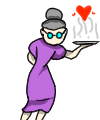
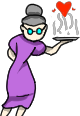
Implement all building animations!
W

diff --git a/SimpleTimer.java b/SimpleTimer.java
@@ -1,0 +1,61 @@
+/**
+ * A simple timer class that allows you to keep track of how much time
+ * has passed between events.
+ * 
+ * You use this class by creating a timer as a member field in your actor (or whatever):
+ * <pre>
+ * 
+ * private SimpleTimer timer = new SimpleTimer();
+ * </pre>
+ * 
+ * Then when you want to start the timer (for example, when a shot is fired), you call the mark() method:
+ * 
+ * <pre>
+ * 
+ * timer.mark();
+ * </pre>
+ * 
+ * Thereafter, you can use the millisElapsed() method to find out how long it's been since mark()
+ * was called (in milliseconds, i.e. thousandths of a second).  So if you want to only allow the player to fire a shot every second, you
+ * could write:
+ * 
+ * <pre>
+ * 
+ * if (timer.millisElapsed() > 1000 && Greenfoot.isKeyDown("space"))
+ * {
+ *     // Code here for firing a new shot
+ *     timer.mark(); // Reset the timer
+ * }
+ * </pre>
+ * 
+ * @author Neil Brown
+ * @version 1.0
+ */
+public class SimpleTimer
+{
+    private long lastMark = System.currentTimeMillis();
+    
+    /**
+     * Marks the current time.  You can then in future call
+     * millisElapsed() to find out the elapsed milliseconds
+     * since this mark() call was made.
+     * 
+     * A second mark() call will reset the mark, and millisElapsed()
+     * will start increasing from zero again.
+     */
+    public void mark()
+    {
+        lastMark = System.currentTimeMillis();
+    }
+    
+    /**
+     * Returns the amount of milliseconds that have elapsed since mark()
+     * was last called.  This timer runs irrespective of Greenfoot's
+     * act() cycle, so if you call it many times during the same Greenfoot frame,
+     * you may well get different answers.
+     */
+    public int millisElapsed()
+    {
+        return (int) (System.currentTimeMillis() - lastMark);
+    }
+}

diff --git a/Building.java b/Building.java
@@ -16,18 +16,23 @@ public abstract class Building extends SuperSmoothMover
     protected Player player;
     protected int actCount;
     protected int actMark;
+    protected SimpleTimer timer = new SimpleTimer();
     
     public Building(Player player) {
         this.player = player;
         actCount = 0;
         actMark = 1;
-        animationIndex = 1;
         scale = 1;
+    }
+    
+    public void addedToWorld(World w) {
+        setInitialImage();
     }
     
     public void act() {
         super.act();
         actCount++;
+        animate();
     }
     
     /**
@@ -61,13 +66,20 @@ public abstract class Building extends SuperSmoothMover
         return actCount + t;
     }
     
+    public void setInitialImage() {
+        String className = this.getClass().getSimpleName();
+        setImage("./gifs/" + className + "/0" + ".png");
+        getImage().scale((int)(getImage().getWidth() * scale), (int)(getImage().getHeight() * scale));
+    }
+    
     public void animate() {
         String className = this.getClass().getSimpleName();
-        if (actCount % 11 == 0 || actCount < 11) {
+        if (actCount % 20 == 0) {
             setImage("./gifs/" + className + "/" + animationIndex + ".png");
             getImage().scale((int)(getImage().getWidth() * scale), (int)(getImage().getHeight() * scale));
+            timer.mark();
+            animationIndex++;
+            animationIndex %= animationSize;
         }
-        animationIndex++;
-        animationIndex %= animationSize;
     }
 }

diff --git a/BuildingRow.java b/BuildingRow.java
@@ -44,11 +44,11 @@ public class BuildingRow extends Clickable
             
             // Make the building move towards the appropriate position
             int buildingX;
+            int imageWidth = building.getImage().getWidth();
             if (buildings.isEmpty()) {
-                int imageWidth = building.getImage().getWidth();
-                buildingX = getX() - (getImage().getWidth() / 2) + (imageWidth / 2) + 10;
+                buildingX = getX() - (getImage().getWidth() / 2) + (imageWidth / 2) + 3;
             } else {
-                buildingX = (int)buildings.get(buildings.size() - 1).getTargetX() + spacing;
+                buildingX = (int)buildings.get(buildings.size() - 1).getTargetX() + (imageWidth / 2) + spacing;
             }
             building.startGlidingTo(buildingX, getY(), 15);
             

diff --git a/Player.java b/Player.java
@@ -82,7 +82,7 @@ public class Player extends Clickable
         int rowHeight = (height - 10) / 2 / cw.getBuildingClasses().size();
         
         for (int i = 0; i < cw.getBuildingClasses().size(); i++) {
-            BuildingRow buildingRow = new BuildingRow(this, cw.getBuildingClasses().get(i), width, rowHeight, 30);
+            BuildingRow buildingRow = new BuildingRow(this, cw.getBuildingClasses().get(i), width, rowHeight, 20);
             buildingRows.put(cw.getBuildingClasses().get(i), buildingRow);
             cw.addObject(buildingRows.get(cw.getBuildingClasses().get(i)), getX(), getY() + 10 + (int)((i + 0.5) * rowHeight));
         }

diff --git a/Grandma.java b/Grandma.java
@@ -11,6 +11,7 @@ public class Grandma extends Building
 {
     private boolean angry;
     private int angryCount;
+    
     public Grandma(Player player) {
         super(player);
         animationSize = 5;
@@ -24,7 +25,6 @@ public class Grandma extends Building
             produce(30, 50);
             actMark = getNextActMark(1, 2);
         }
-        animate();
         if(angry) {
             angryCount++;
             if(angryCount < 10) { // stagger jumping start times

diff --git a/Printer3D.java b/Printer3D.java
@@ -10,8 +10,8 @@ public class Printer3D extends Building
 {
     public Printer3D(Player player) {
         super(player);
-        
-        setImage("./images/placeholder/alchemy-lab.png");
+        animationSize = 8;
+        scale = 0.5;
     }
     
     public void act() {
@@ -20,5 +20,7 @@ public class Printer3D extends Building
             produce(650, 900);
             getNextActMark(2, 3);
         }
+        
+        animate();
     }
 }

diff --git a/AlchemyLab.java b/AlchemyLab.java
@@ -10,8 +10,8 @@ public class AlchemyLab extends Building
 {
     public AlchemyLab(Player player) {
         super(player);
-        animationSize = 6;
-        
+        animationSize = 5;
+        scale = 0.52;
     }
     
     public void act() {
@@ -20,7 +20,5 @@ public class AlchemyLab extends Building
             produce(500, 1000);    
             actMark = getNextActMark(2, 3);
         }
-        
-        animate();
     }
 }

diff --git a/Portal.java b/Portal.java
@@ -10,6 +10,8 @@ public class Portal extends Building
 {
     public Portal(Player player) {
         super(player);
+        animationSize = 7;
+        scale = 0.6;
     }
     
     public void act() {
@@ -18,5 +20,7 @@ public class Portal extends Building
             produce(2000, 4000);
             actMark = getNextActMark(3, 3);
         }
+        
+        animate();
     }
 }

diff --git a/CookieGod.java b/CookieGod.java
@@ -9,8 +9,8 @@ public class CookieGod extends Building
 {
     public CookieGod(Player player) {
         super(player);
-        
-        setImage("./images/placeholder/cookie-god.png");
+        animationSize = 7;
+        scale = 0.7;
     }
     
     public void act() {

diff --git a/Baby.java b/Baby.java
@@ -11,8 +11,8 @@ public class Baby extends Building
 {
     public Baby(Player player) {
         super(player);
-        
-        setImage("./images/placeholder/baby.png");
+        animationSize = 11;
+        scale = 0.5;
     }
     
     public void act() {
